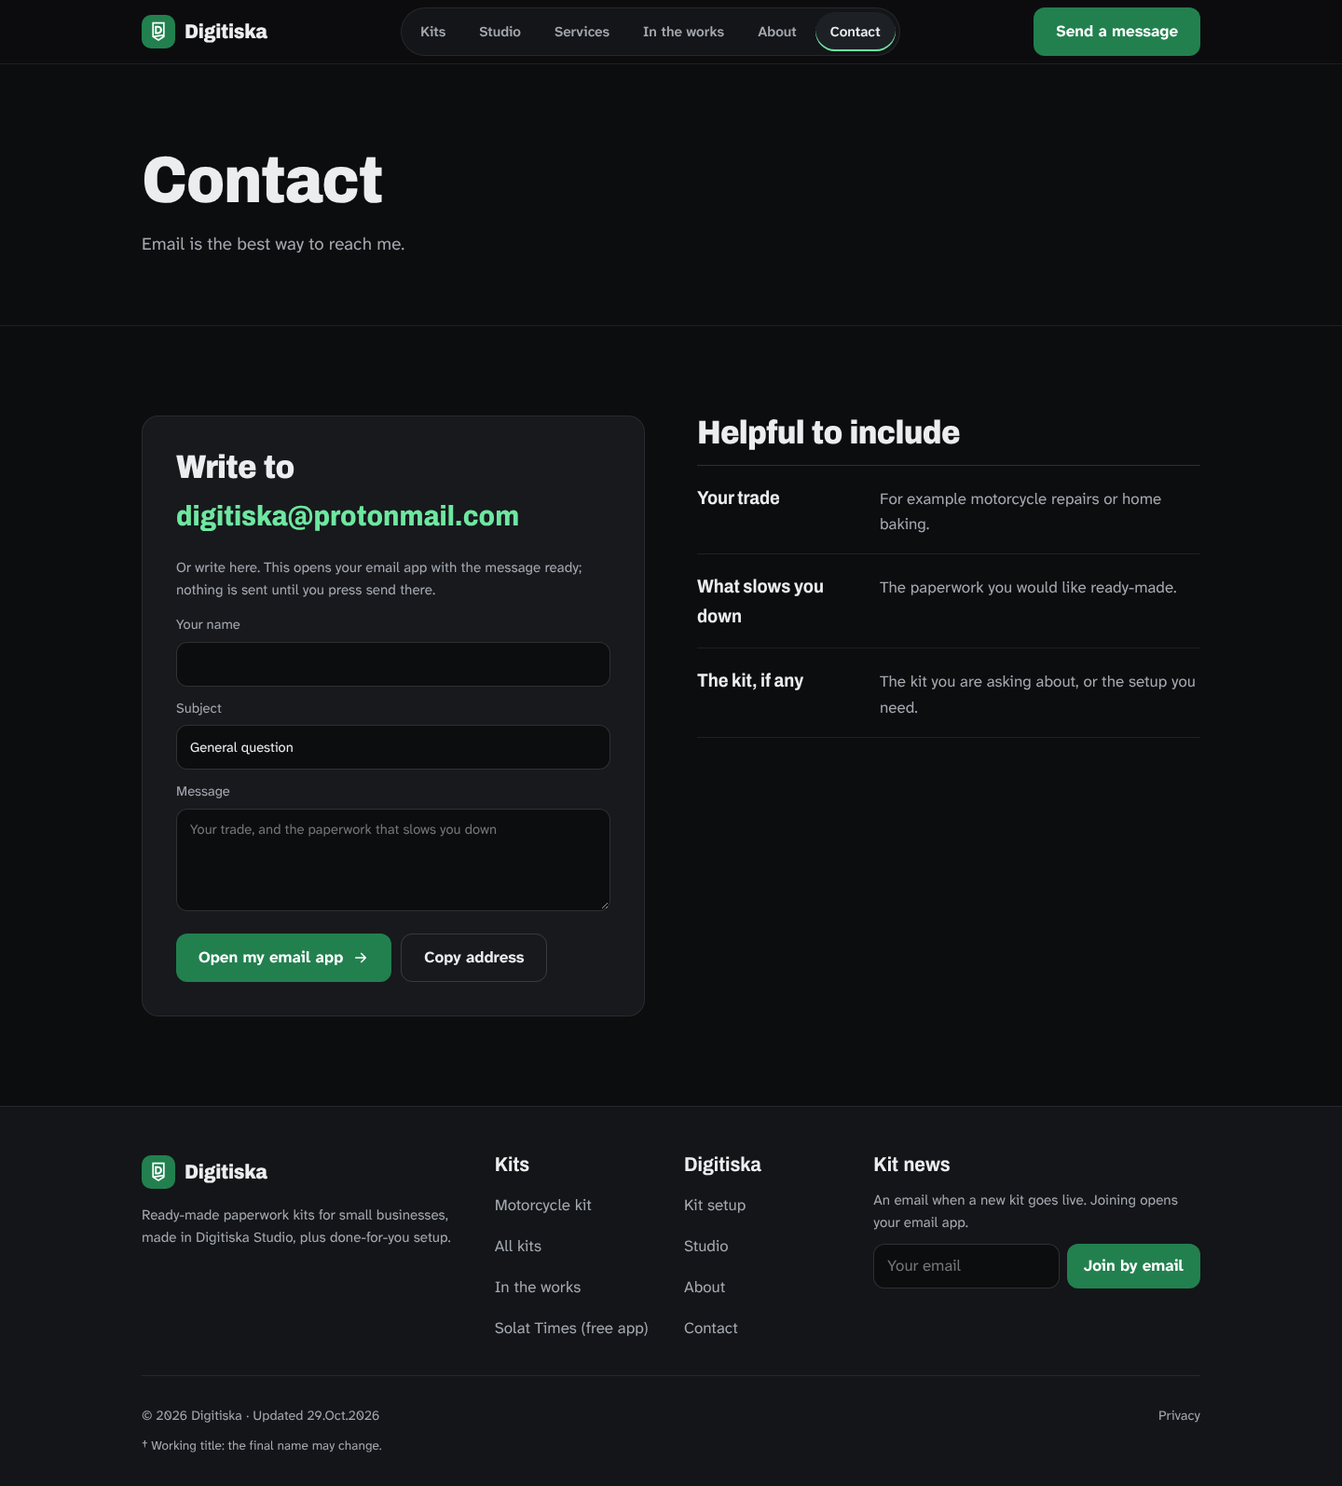
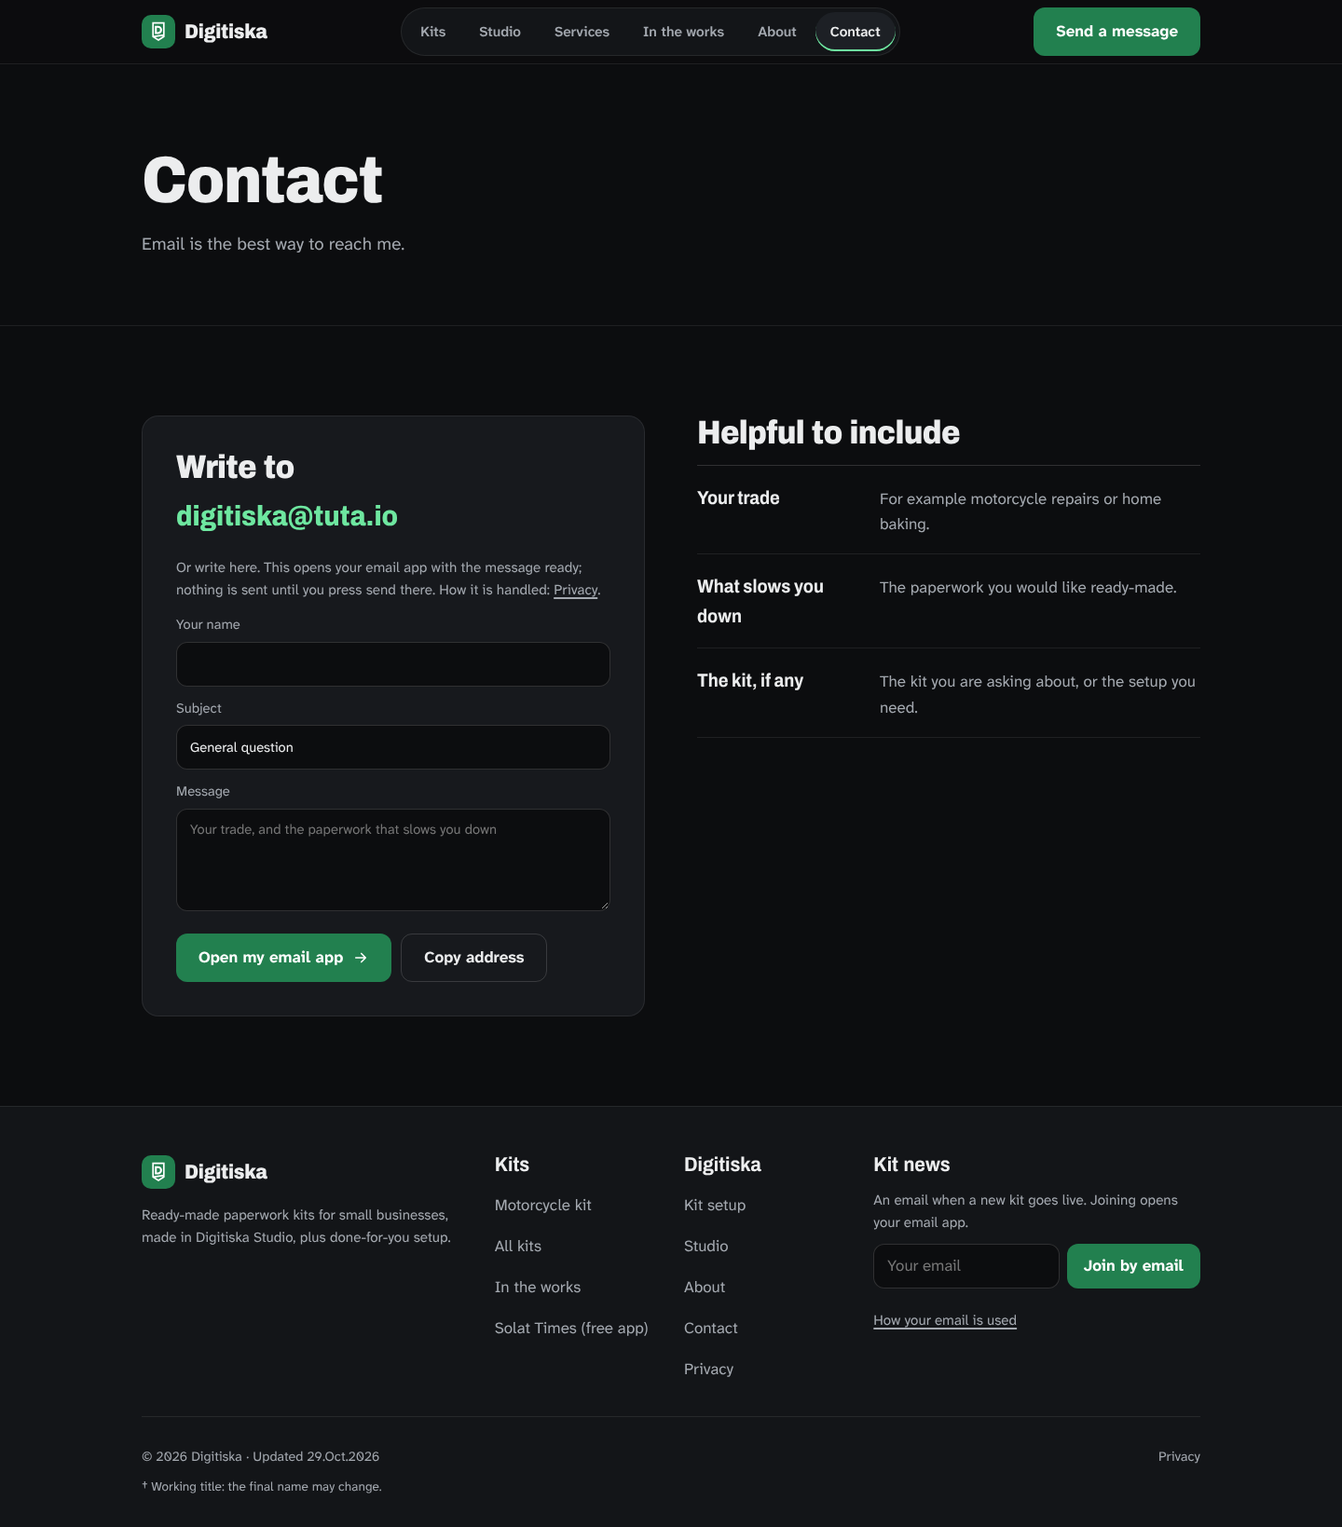
Site: contact email is now digitiska@tuta.io; easier-to-find Privacy links
- Replace digitiska@protonmail.com with digitiska@tuta.io on every page,
  in the mailto form handler and in the README.
- Privacy link added to the footer "Digitiska" column on every page, under the
  Kit news sign-up ("How your email is used") and in the Contact page text.
- Review screenshots refreshed.

Claude-Session: https://claude.ai/code/session_01DngUHHpV5KXMFS3rQduiSz

diff --git a/site/contact.html b/site/contact.html
@@ -4,13 +4,13 @@
 <meta charset="utf-8">
 <meta name="viewport" content="width=device-width, initial-scale=1">
 <title>Contact Digitiska</title>
-<meta name="description" content="Write to digitiska@protonmail.com about a kit, a setup, or a kit for your trade.">
+<meta name="description" content="Write to digitiska@tuta.io about a kit, a setup, or a kit for your trade.">
 <meta name="theme-color" content="#0c0d0f">
 <link rel="canonical" href="https://digitiska.com/contact">
 <meta property="og:type" content="website">
 <meta property="og:site_name" content="Digitiska">
 <meta property="og:title" content="Contact Digitiska">
-<meta property="og:description" content="Write to digitiska@protonmail.com about a kit, a setup, or a kit for your trade.">
+<meta property="og:description" content="Write to digitiska@tuta.io about a kit, a setup, or a kit for your trade.">
 <meta property="og:url" content="https://digitiska.com/contact">
 <link rel="preload" href="/assets/fonts/archivo-latin-var.woff2" as="font" type="font/woff2" crossorigin>
 <link rel="preload" href="/assets/fonts/atkinson-hyperlegible-next-latin-var.woff2" as="font" type="font/woff2" crossorigin>
@@ -57,8 +57,8 @@
     <div class="wrap contact-grid">
       <div class="mailbox">
         <h2 id="write-t">Write to</h2>
-        <p class="addr"><a href="mailto:digitiska@protonmail.com">digitiska@protonmail.com</a></p>
-        <p class="hint-top">Or write here. This opens your email app with the message ready; nothing is sent until you press send there.</p>
+        <p class="addr"><a href="mailto:digitiska@tuta.io">digitiska@tuta.io</a></p>
+        <p class="hint-top">Or write here. This opens your email app with the message ready; nothing is sent until you press send there. How it is handled: <a href="/privacy">Privacy</a>.</p>
         <form class="enq inline" aria-label="Message">
           <label>Your name<input name="name" required autocomplete="name"></label>
           <label>Subject<input name="subject" value="General question"></label>
@@ -84,8 +84,8 @@
     <div class="f-grid">
       <div><a class="brand" href="/"><span class="logo"><svg><use href="#i-logo"/></svg></span><b>Digitiska</b></a><p>Ready-made paperwork kits for small businesses, made in Digitiska Studio, plus done-for-you setup.</p></div>
       <div><h2 class="f-h">Kits</h2><ul><li><a href="https://quote-to-invoice.digitiska.com">Motorcycle kit</a></li><li><a href="/#kits">All kits</a></li><li><a href="/#works">In the works</a></li><li><a href="https://solat.digitiska.com">Solat Times (free app)</a></li></ul></div>
-      <div><h2 class="f-h">Digitiska</h2><ul><li><a href="/#services">Kit setup</a></li><li><a href="/studio">Studio</a></li><li><a href="/about">About</a></li><li><a href="/contact">Contact</a></li></ul></div>
-      <div><h2 class="f-h">Kit news</h2><p class="mt-0">An email when a new kit goes live. Joining opens your email app.</p><form class="sub" id="sub"><label class="sr" for="sub-e">Your email</label><input id="sub-e" type="email" required placeholder="Your email"><button class="btn btn-primary">Join by email</button></form></div>
+      <div><h2 class="f-h">Digitiska</h2><ul><li><a href="/#services">Kit setup</a></li><li><a href="/studio">Studio</a></li><li><a href="/about">About</a></li><li><a href="/contact">Contact</a></li><li><a href="/privacy">Privacy</a></li></ul></div>
+      <div><h2 class="f-h">Kit news</h2><p class="mt-0">An email when a new kit goes live. Joining opens your email app.</p><form class="sub" id="sub"><label class="sr" for="sub-e">Your email</label><input id="sub-e" type="email" required placeholder="Your email"><button class="btn btn-primary">Join by email</button></form><p class="sub-note"><a href="/privacy">How your email is used</a></p></div>
     </div>
     <div class="legal"><span>© 2026 Digitiska · Updated 29.Oct.2026</span><nav aria-label="Legal"><a href="/privacy">Privacy</a></nav></div>
     <p class="note">† Working title: the final name may change.</p>
@@ -95,7 +95,7 @@
 <dialog id="enq-d" aria-labelledby="eq-t">
   <button class="x" data-close aria-label="Close"><svg><use href="#i-x"/></svg></button>
   <h2 id="eq-t">Send a message</h2>
-  <p class="d-desc">This opens your email app with the message ready to send to digitiska@protonmail.com.</p>
+  <p class="d-desc">This opens your email app with the message ready to send to digitiska@tuta.io.</p>
   <form class="enq" id="enq">
     <label>Your name<input name="name" required autocomplete="name"></label>
     <label>Subject<input name="subject" id="enq-subject"></label>

diff --git a/site/privacy.html b/site/privacy.html
@@ -58,13 +58,13 @@
     <p>No cookies, no analytics and no tracking scripts. The fonts are served from this site, so no request goes to a font service.</p>
     <p>The site is hosted on Cloudflare, which handles the basic connection data any website host needs to deliver a page.</p>
     <h2>When you write to me</h2>
-    <p>The message forms do not send anything themselves. They open your own email app with the message ready; it is sent only if you press send there, to <a href="mailto:digitiska@protonmail.com">digitiska@protonmail.com</a>. I use your email only to reply.</p>
+    <p>The message forms do not send anything themselves. They open your own email app with the message ready; it is sent only if you press send there, to <a href="mailto:digitiska@tuta.io">digitiska@tuta.io</a>. I use your email only to reply.</p>
     <h2>When you buy a kit</h2>
     <p>Each kit is sold on its own page. Payment is handled there by the payment provider, not by this website.</p>
     <h2>The free Solat Times app</h2>
     <p>Solat Times (solat.digitiska.com) has no account and keeps its settings on your phone. To show your times it contacts: JAKIM e-Solat (only your zone code), OpenStreetMap Nominatim (your position rounded to about 1&nbsp;km, to find your district) and islamcan.com (the azan sound, only when it plays). If you tap the option to estimate your location, your internet address goes to a location lookup service. The app lists the same in its Settings.</p>
     <h2>Questions</h2>
-    <p>Write to <a href="mailto:digitiska@protonmail.com">digitiska@protonmail.com</a>.</p>
+    <p>Write to <a href="mailto:digitiska@tuta.io">digitiska@tuta.io</a>.</p>
   </div></section>
 </main>
 
@@ -74,8 +74,8 @@
     <div class="f-grid">
       <div><a class="brand" href="/"><span class="logo"><svg><use href="#i-logo"/></svg></span><b>Digitiska</b></a><p>Ready-made paperwork kits for small businesses, made in Digitiska Studio, plus done-for-you setup.</p></div>
       <div><h2 class="f-h">Kits</h2><ul><li><a href="https://quote-to-invoice.digitiska.com">Motorcycle kit</a></li><li><a href="/#kits">All kits</a></li><li><a href="/#works">In the works</a></li><li><a href="https://solat.digitiska.com">Solat Times (free app)</a></li></ul></div>
-      <div><h2 class="f-h">Digitiska</h2><ul><li><a href="/#services">Kit setup</a></li><li><a href="/studio">Studio</a></li><li><a href="/about">About</a></li><li><a href="/contact">Contact</a></li></ul></div>
-      <div><h2 class="f-h">Kit news</h2><p class="mt-0">An email when a new kit goes live. Joining opens your email app.</p><form class="sub" id="sub"><label class="sr" for="sub-e">Your email</label><input id="sub-e" type="email" required placeholder="Your email"><button class="btn btn-primary">Join by email</button></form></div>
+      <div><h2 class="f-h">Digitiska</h2><ul><li><a href="/#services">Kit setup</a></li><li><a href="/studio">Studio</a></li><li><a href="/about">About</a></li><li><a href="/contact">Contact</a></li><li><a href="/privacy">Privacy</a></li></ul></div>
+      <div><h2 class="f-h">Kit news</h2><p class="mt-0">An email when a new kit goes live. Joining opens your email app.</p><form class="sub" id="sub"><label class="sr" for="sub-e">Your email</label><input id="sub-e" type="email" required placeholder="Your email"><button class="btn btn-primary">Join by email</button></form><p class="sub-note"><a href="/privacy">How your email is used</a></p></div>
     </div>
     <div class="legal"><span>© 2026 Digitiska · Updated 29.Oct.2026</span><nav aria-label="Legal"><a href="/privacy">Privacy</a></nav></div>
     <p class="note">† Working title: the final name may change.</p>
@@ -85,7 +85,7 @@
 <dialog id="enq-d" aria-labelledby="eq-t">
   <button class="x" data-close aria-label="Close"><svg><use href="#i-x"/></svg></button>
   <h2 id="eq-t">Send a message</h2>
-  <p class="d-desc">This opens your email app with the message ready to send to digitiska@protonmail.com.</p>
+  <p class="d-desc">This opens your email app with the message ready to send to digitiska@tuta.io.</p>
   <form class="enq" id="enq">
     <label>Your name<input name="name" required autocomplete="name"></label>
     <label>Subject<input name="subject" id="enq-subject"></label>

diff --git a/site/index.html b/site/index.html
@@ -181,8 +181,8 @@
     <div class="f-grid">
       <div><a class="brand" href="/"><span class="logo"><svg><use href="#i-logo"/></svg></span><b>Digitiska</b></a><p>Ready-made paperwork kits for small businesses, made in Digitiska Studio, plus done-for-you setup.</p></div>
       <div><h2 class="f-h">Kits</h2><ul><li><a href="https://quote-to-invoice.digitiska.com">Motorcycle kit</a></li><li><a href="/#kits">All kits</a></li><li><a href="/#works">In the works</a></li><li><a href="https://solat.digitiska.com">Solat Times (free app)</a></li></ul></div>
-      <div><h2 class="f-h">Digitiska</h2><ul><li><a href="/#services">Kit setup</a></li><li><a href="/studio">Studio</a></li><li><a href="/about">About</a></li><li><a href="/contact">Contact</a></li></ul></div>
-      <div><h2 class="f-h">Kit news</h2><p class="mt-0">An email when a new kit goes live. Joining opens your email app.</p><form class="sub" id="sub"><label class="sr" for="sub-e">Your email</label><input id="sub-e" type="email" required placeholder="Your email"><button class="btn btn-primary">Join by email</button></form></div>
+      <div><h2 class="f-h">Digitiska</h2><ul><li><a href="/#services">Kit setup</a></li><li><a href="/studio">Studio</a></li><li><a href="/about">About</a></li><li><a href="/contact">Contact</a></li><li><a href="/privacy">Privacy</a></li></ul></div>
+      <div><h2 class="f-h">Kit news</h2><p class="mt-0">An email when a new kit goes live. Joining opens your email app.</p><form class="sub" id="sub"><label class="sr" for="sub-e">Your email</label><input id="sub-e" type="email" required placeholder="Your email"><button class="btn btn-primary">Join by email</button></form><p class="sub-note"><a href="/privacy">How your email is used</a></p></div>
     </div>
     <div class="legal"><span>© 2026 Digitiska · Updated 29.Oct.2026</span><nav aria-label="Legal"><a href="/privacy">Privacy</a></nav></div>
     <p class="note">† Working title: the final name may change.</p>
@@ -203,7 +203,7 @@
 <dialog id="enq-d" aria-labelledby="eq-t">
   <button class="x" data-close aria-label="Close"><svg><use href="#i-x"/></svg></button>
   <h2 id="eq-t">Send a message</h2>
-  <p class="d-desc">This opens your email app with the message ready to send to digitiska@protonmail.com.</p>
+  <p class="d-desc">This opens your email app with the message ready to send to digitiska@tuta.io.</p>
   <form class="enq" id="enq">
     <label>Your name<input name="name" required autocomplete="name"></label>
     <label>Subject<input name="subject" id="enq-subject"></label>

diff --git a/site/studio.html b/site/studio.html
@@ -118,8 +118,8 @@
     <div class="f-grid">
       <div><a class="brand" href="/"><span class="logo"><svg><use href="#i-logo"/></svg></span><b>Digitiska</b></a><p>Ready-made paperwork kits for small businesses, made in Digitiska Studio, plus done-for-you setup.</p></div>
       <div><h2 class="f-h">Kits</h2><ul><li><a href="https://quote-to-invoice.digitiska.com">Motorcycle kit</a></li><li><a href="/#kits">All kits</a></li><li><a href="/#works">In the works</a></li><li><a href="https://solat.digitiska.com">Solat Times (free app)</a></li></ul></div>
-      <div><h2 class="f-h">Digitiska</h2><ul><li><a href="/#services">Kit setup</a></li><li><a href="/studio">Studio</a></li><li><a href="/about">About</a></li><li><a href="/contact">Contact</a></li></ul></div>
-      <div><h2 class="f-h">Kit news</h2><p class="mt-0">An email when a new kit goes live. Joining opens your email app.</p><form class="sub" id="sub"><label class="sr" for="sub-e">Your email</label><input id="sub-e" type="email" required placeholder="Your email"><button class="btn btn-primary">Join by email</button></form></div>
+      <div><h2 class="f-h">Digitiska</h2><ul><li><a href="/#services">Kit setup</a></li><li><a href="/studio">Studio</a></li><li><a href="/about">About</a></li><li><a href="/contact">Contact</a></li><li><a href="/privacy">Privacy</a></li></ul></div>
+      <div><h2 class="f-h">Kit news</h2><p class="mt-0">An email when a new kit goes live. Joining opens your email app.</p><form class="sub" id="sub"><label class="sr" for="sub-e">Your email</label><input id="sub-e" type="email" required placeholder="Your email"><button class="btn btn-primary">Join by email</button></form><p class="sub-note"><a href="/privacy">How your email is used</a></p></div>
     </div>
     <div class="legal"><span>© 2026 Digitiska · Updated 29.Oct.2026</span><nav aria-label="Legal"><a href="/privacy">Privacy</a></nav></div>
     <p class="note">† Working title: the final name may change.</p>
@@ -129,7 +129,7 @@
 <dialog id="enq-d" aria-labelledby="eq-t">
   <button class="x" data-close aria-label="Close"><svg><use href="#i-x"/></svg></button>
   <h2 id="eq-t">Send a message</h2>
-  <p class="d-desc">This opens your email app with the message ready to send to digitiska@protonmail.com.</p>
+  <p class="d-desc">This opens your email app with the message ready to send to digitiska@tuta.io.</p>
   <form class="enq" id="enq">
     <label>Your name<input name="name" required autocomplete="name"></label>
     <label>Subject<input name="subject" id="enq-subject"></label>

diff --git a/site/404.html b/site/404.html
@@ -62,8 +62,8 @@
     <div class="f-grid">
       <div><a class="brand" href="/"><span class="logo"><svg><use href="#i-logo"/></svg></span><b>Digitiska</b></a><p>Ready-made paperwork kits for small businesses, made in Digitiska Studio, plus done-for-you setup.</p></div>
       <div><h2 class="f-h">Kits</h2><ul><li><a href="https://quote-to-invoice.digitiska.com">Motorcycle kit</a></li><li><a href="/#kits">All kits</a></li><li><a href="/#works">In the works</a></li><li><a href="https://solat.digitiska.com">Solat Times (free app)</a></li></ul></div>
-      <div><h2 class="f-h">Digitiska</h2><ul><li><a href="/#services">Kit setup</a></li><li><a href="/studio">Studio</a></li><li><a href="/about">About</a></li><li><a href="/contact">Contact</a></li></ul></div>
-      <div><h2 class="f-h">Kit news</h2><p class="mt-0">An email when a new kit goes live. Joining opens your email app.</p><form class="sub" id="sub"><label class="sr" for="sub-e">Your email</label><input id="sub-e" type="email" required placeholder="Your email"><button class="btn btn-primary">Join by email</button></form></div>
+      <div><h2 class="f-h">Digitiska</h2><ul><li><a href="/#services">Kit setup</a></li><li><a href="/studio">Studio</a></li><li><a href="/about">About</a></li><li><a href="/contact">Contact</a></li><li><a href="/privacy">Privacy</a></li></ul></div>
+      <div><h2 class="f-h">Kit news</h2><p class="mt-0">An email when a new kit goes live. Joining opens your email app.</p><form class="sub" id="sub"><label class="sr" for="sub-e">Your email</label><input id="sub-e" type="email" required placeholder="Your email"><button class="btn btn-primary">Join by email</button></form><p class="sub-note"><a href="/privacy">How your email is used</a></p></div>
     </div>
     <div class="legal"><span>© 2026 Digitiska · Updated 29.Oct.2026</span><nav aria-label="Legal"><a href="/privacy">Privacy</a></nav></div>
     <p class="note">† Working title: the final name may change.</p>
@@ -73,7 +73,7 @@
 <dialog id="enq-d" aria-labelledby="eq-t">
   <button class="x" data-close aria-label="Close"><svg><use href="#i-x"/></svg></button>
   <h2 id="eq-t">Send a message</h2>
-  <p class="d-desc">This opens your email app with the message ready to send to digitiska@protonmail.com.</p>
+  <p class="d-desc">This opens your email app with the message ready to send to digitiska@tuta.io.</p>
   <form class="enq" id="enq">
     <label>Your name<input name="name" required autocomplete="name"></label>
     <label>Subject<input name="subject" id="enq-subject"></label>

diff --git a/site/about.html b/site/about.html
@@ -83,8 +83,8 @@
     <div class="f-grid">
       <div><a class="brand" href="/"><span class="logo"><svg><use href="#i-logo"/></svg></span><b>Digitiska</b></a><p>Ready-made paperwork kits for small businesses, made in Digitiska Studio, plus done-for-you setup.</p></div>
       <div><h2 class="f-h">Kits</h2><ul><li><a href="https://quote-to-invoice.digitiska.com">Motorcycle kit</a></li><li><a href="/#kits">All kits</a></li><li><a href="/#works">In the works</a></li><li><a href="https://solat.digitiska.com">Solat Times (free app)</a></li></ul></div>
-      <div><h2 class="f-h">Digitiska</h2><ul><li><a href="/#services">Kit setup</a></li><li><a href="/studio">Studio</a></li><li><a href="/about">About</a></li><li><a href="/contact">Contact</a></li></ul></div>
-      <div><h2 class="f-h">Kit news</h2><p class="mt-0">An email when a new kit goes live. Joining opens your email app.</p><form class="sub" id="sub"><label class="sr" for="sub-e">Your email</label><input id="sub-e" type="email" required placeholder="Your email"><button class="btn btn-primary">Join by email</button></form></div>
+      <div><h2 class="f-h">Digitiska</h2><ul><li><a href="/#services">Kit setup</a></li><li><a href="/studio">Studio</a></li><li><a href="/about">About</a></li><li><a href="/contact">Contact</a></li><li><a href="/privacy">Privacy</a></li></ul></div>
+      <div><h2 class="f-h">Kit news</h2><p class="mt-0">An email when a new kit goes live. Joining opens your email app.</p><form class="sub" id="sub"><label class="sr" for="sub-e">Your email</label><input id="sub-e" type="email" required placeholder="Your email"><button class="btn btn-primary">Join by email</button></form><p class="sub-note"><a href="/privacy">How your email is used</a></p></div>
     </div>
     <div class="legal"><span>© 2026 Digitiska · Updated 29.Oct.2026</span><nav aria-label="Legal"><a href="/privacy">Privacy</a></nav></div>
     <p class="note">† Working title: the final name may change.</p>
@@ -94,7 +94,7 @@
 <dialog id="enq-d" aria-labelledby="eq-t">
   <button class="x" data-close aria-label="Close"><svg><use href="#i-x"/></svg></button>
   <h2 id="eq-t">Send a message</h2>
-  <p class="d-desc">This opens your email app with the message ready to send to digitiska@protonmail.com.</p>
+  <p class="d-desc">This opens your email app with the message ready to send to digitiska@tuta.io.</p>
   <form class="enq" id="enq">
     <label>Your name<input name="name" required autocomplete="name"></label>
     <label>Subject<input name="subject" id="enq-subject"></label>

diff --git a/site/assets/site.css b/site/assets/site.css
@@ -222,6 +222,9 @@ footer { border-top: 1px solid var(--line); background: var(--raised); padding: 
 .sub { display: flex; gap: 8px; margin-top: 10px; }
 .sub input { flex: 1; min-width: 0; min-height: 48px; padding: 0 14px; border-radius: 12px; border: 1px solid var(--line-2); background: var(--bg); }
 .sub .btn { min-height: 48px; padding: 0 18px; }
+.sub-note { margin-top: 2px; font-size: .9rem; }
+.sub-note a { display: inline-flex; align-items: center; min-height: 44px; color: var(--muted); }
+.sub-note a:hover { color: var(--text); }
 .legal { padding-top: 20px; display: flex; flex-wrap: wrap; justify-content: space-between; align-items: center; gap: 12px; font-size: .9rem; color: var(--muted); }
 .legal nav { display: flex; gap: 18px; }
 .legal a { text-decoration: none; display: inline-flex; align-items: center; min-height: 44px; }

diff --git a/site/assets/site.js b/site/assets/site.js
@@ -1,5 +1,5 @@
 // digitiska.com behaviour: kit catalogue, kit details, demo, estimator, enquiries.
-const EMAIL = 'digitiska@protonmail.com';
+const EMAIL = 'digitiska@tuta.io';
 const ph = s => `<span class="ph">${s}</span>`;
 const $ = s => document.querySelector(s);
 const icon = id => `<svg aria-hidden="true"><use href="#${id}"/></svg>`;

diff --git a/README.md b/README.md
@@ -11,7 +11,7 @@ Public website for **digitiska.com**, plus earlier product experiments.
 
 ## The website
 
-Plain HTML, CSS and JavaScript, no build step. Fonts are self-hosted (`site/assets/fonts/`, SIL Open Font License 1.1). `site/_headers` sets a strict content security policy, so the pages use no inline scripts or styles and load nothing from other sites. Messages and the kit-news sign-up open the visitor's own email app (to digitiska@protonmail.com); the site stores nothing.
+Plain HTML, CSS and JavaScript, no build step. Fonts are self-hosted (`site/assets/fonts/`, SIL Open Font License 1.1). `site/_headers` sets a strict content security policy, so the pages use no inline scripts or styles and load nothing from other sites. Messages and the kit-news sign-up open the visitor's own email app (to digitiska@tuta.io); the site stores nothing.
 
 Small text edits: edit the file in `site/` on GitHub (pencil icon), then commit to a branch and open a pull request into `main`. Once Cloudflare is connected (below), merging to `main` publishes the change.
 
